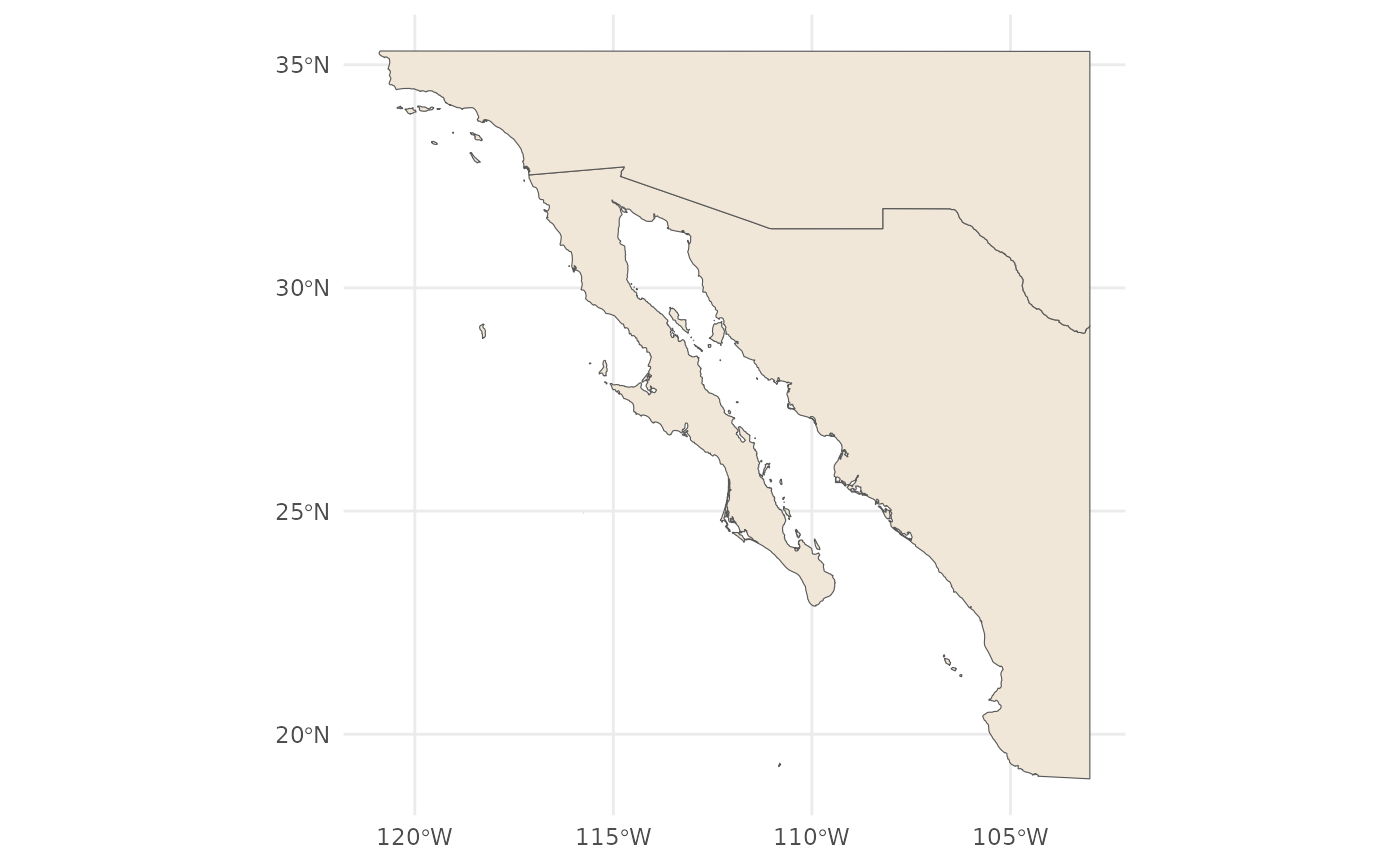
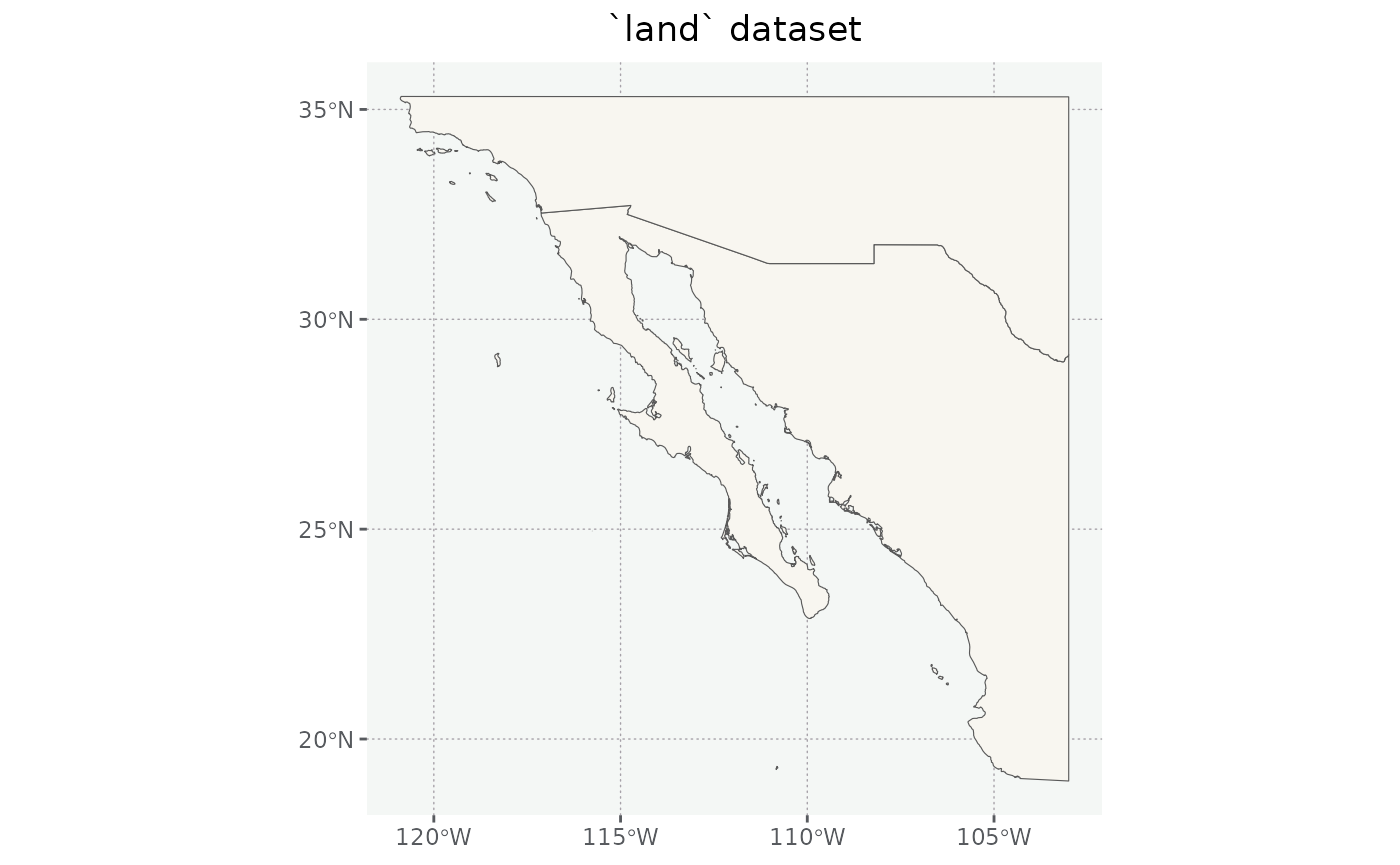
Deploying to gh-pages from @ sagesteppe/flyer@f2c54c11d3c9e07868a18c1d25ba325e4ec7dc86 🚀

diff --git a/articles/ExploreDataSets.html b/articles/ExploreDataSets.html
@@ -122,7 +122,29 @@ the <code>pretty</code> function does not always return the requested
 <span>  <span class="op">)</span></span>
 <span><span class="op">}</span></span>
 <span></span>
-<span><span class="va">brks</span> <span class="op">&lt;-</span> <span class="fu">graticNo</span><span class="op">(</span>polygon <span class="op">=</span> <span class="va">places</span>, nx <span class="op">=</span> <span class="fl">4</span>, ny <span class="op">=</span> <span class="fl">5</span><span class="op">)</span></span></code></pre></div>
+<span><span class="va">brks</span> <span class="op">&lt;-</span> <span class="fu">graticNo</span><span class="op">(</span>polygon <span class="op">=</span> <span class="va">places</span>, nx <span class="op">=</span> <span class="fl">4</span>, ny <span class="op">=</span> <span class="fl">4</span><span class="op">)</span></span>
+<span></span>
+<span></span>
+<span><span class="va">theme_nautical</span> <span class="op">&lt;-</span> <span class="kw">function</span><span class="op">(</span><span class="op">)</span> <span class="op">{</span></span>
+<span>  <span class="fu"><a href="https://ggplot2.tidyverse.org/reference/theme.html" class="external-link">theme</a></span><span class="op">(</span></span>
+<span>    </span>
+<span>    axis.title <span class="op">=</span> <span class="fu"><a href="https://ggplot2.tidyverse.org/reference/element.html" class="external-link">element_text</a></span><span class="op">(</span>colour <span class="op">=</span> <span class="st">"#222823"</span>, family <span class="op">=</span> <span class="st">"Times New Roman"</span><span class="op">)</span>,</span>
+<span>    axis.text <span class="op">=</span> <span class="fu"><a href="https://ggplot2.tidyverse.org/reference/element.html" class="external-link">element_text</a></span><span class="op">(</span>colour <span class="op">=</span> <span class="st">"#575A5E"</span>, face <span class="op">=</span> <span class="st">"italic"</span>, family <span class="op">=</span> <span class="st">"Optima"</span><span class="op">)</span>,</span>
+<span>    axis.ticks <span class="op">=</span> <span class="fu"><a href="https://ggplot2.tidyverse.org/reference/element.html" class="external-link">element_line</a></span><span class="op">(</span>colour <span class="op">=</span> <span class="st">"#575A5E"</span><span class="op">)</span>,</span>
+<span>    </span>
+<span>    plot.title <span class="op">=</span> <span class="fu"><a href="https://ggplot2.tidyverse.org/reference/element.html" class="external-link">element_text</a></span><span class="op">(</span>hjust <span class="op">=</span> <span class="fl">0.5</span><span class="op">)</span>,</span>
+<span>    plot.subtitle <span class="op">=</span> <span class="fu"><a href="https://ggplot2.tidyverse.org/reference/element.html" class="external-link">element_text</a></span><span class="op">(</span>hjust <span class="op">=</span> <span class="fl">1</span><span class="op">)</span>,</span>
+<span></span>
+<span>    </span>
+<span>    panel.background <span class="op">=</span> <span class="fu"><a href="https://ggplot2.tidyverse.org/reference/element.html" class="external-link">element_rect</a></span><span class="op">(</span>fill <span class="op">=</span> <span class="st">"#F4F7F5"</span><span class="op">)</span>,</span>
+<span>    panel.border <span class="op">=</span> <span class="fu"><a href="https://ggplot2.tidyverse.org/reference/element.html" class="external-link">element_rect</a></span><span class="op">(</span>colour <span class="op">=</span> <span class="cn">NA</span>, fill <span class="op">=</span> <span class="cn">NA</span><span class="op">)</span>,</span>
+<span>    panel.grid.major <span class="op">=</span> <span class="fu"><a href="https://ggplot2.tidyverse.org/reference/element.html" class="external-link">element_line</a></span><span class="op">(</span>colour <span class="op">=</span> <span class="st">"#A7A2A9"</span>, linetype <span class="op">=</span> <span class="st">'dotted'</span>, linewidth <span class="op">=</span> <span class="fl">0.25</span><span class="op">)</span>,</span>
+<span>    panel.grid.minor <span class="op">=</span> <span class="fu"><a href="https://ggplot2.tidyverse.org/reference/element.html" class="external-link">element_blank</a></span><span class="op">(</span><span class="op">)</span>,</span>
+<span>  </span>
+<span>    legend.position <span class="op">=</span> <span class="st">"bottom"</span></span>
+<span>    </span>
+<span>  <span class="op">)</span></span>
+<span><span class="op">}</span></span></code></pre></div>
 </div>
 <div class="section level2">
 <h2 id="the-data-sets">the data sets<a class="anchor" aria-label="anchor" href="#the-data-sets"></a>
@@ -158,8 +180,9 @@ Open Sci page for more info</a>.</p>
 <span><span class="co">#&gt; <span style="color: #BCBCBC;">2</span> United States of America (((-119.3816 34.01122, -119.3923 34.00631, -119.4113…</span></span>
 <span></span>
 <span><span class="fu"><a href="https://ggplot2.tidyverse.org/reference/ggplot.html" class="external-link">ggplot</a></span><span class="op">(</span><span class="op">)</span> <span class="op">+</span> </span>
-<span>  <span class="fu"><a href="https://ggplot2.tidyverse.org/reference/ggsf.html" class="external-link">geom_sf</a></span><span class="op">(</span>data <span class="op">=</span> <span class="va">land</span>, fill <span class="op">=</span> <span class="st">'#F0E7D8'</span><span class="op">)</span> <span class="op">+</span> </span>
-<span>  <span class="fu"><a href="https://ggplot2.tidyverse.org/reference/ggtheme.html" class="external-link">theme_minimal</a></span><span class="op">(</span><span class="op">)</span></span></code></pre></div>
+<span>  <span class="fu"><a href="https://ggplot2.tidyverse.org/reference/ggsf.html" class="external-link">geom_sf</a></span><span class="op">(</span>data <span class="op">=</span> <span class="va">land</span>, fill <span class="op">=</span> <span class="st">'#F8F6F0'</span><span class="op">)</span> <span class="op">+</span> </span>
+<span>  <span class="fu">theme_nautical</span><span class="op">(</span><span class="op">)</span> <span class="op">+</span></span>
+<span>  <span class="fu"><a href="https://ggplot2.tidyverse.org/reference/labs.html" class="external-link">labs</a></span><span class="op">(</span>title <span class="op">=</span> <span class="st">'`land` dataset'</span><span class="op">)</span></span></code></pre></div>
 <p><img src="ExploreDataSets_files/figure-html/add%20land-1.png" width="700"></p>
 <p>For playing around with the data today, I don’t want the different
 countries to be drawn separately so we can union them.</p>
@@ -167,8 +190,12 @@ countries to be drawn separately so we can union them.</p>
 <code class="sourceCode R"><span><span class="va">land</span> <span class="op">&lt;-</span> <span class="fu"><a href="https://r-spatial.github.io/sf/reference/geos_combine.html" class="external-link">st_union</a></span><span class="op">(</span><span class="va">land</span><span class="op">)</span></span>
 <span></span>
 <span><span class="va">m</span> <span class="op">&lt;-</span> <span class="fu"><a href="https://ggplot2.tidyverse.org/reference/ggplot.html" class="external-link">ggplot</a></span><span class="op">(</span><span class="op">)</span> <span class="op">+</span> </span>
-<span>  <span class="fu"><a href="https://ggplot2.tidyverse.org/reference/ggsf.html" class="external-link">geom_sf</a></span><span class="op">(</span>data <span class="op">=</span> <span class="va">land</span>, fill <span class="op">=</span> <span class="st">'#F0E7D8'</span><span class="op">)</span> <span class="op">+</span> </span>
-<span>  <span class="fu"><a href="https://ggplot2.tidyverse.org/reference/ggtheme.html" class="external-link">theme_minimal</a></span><span class="op">(</span><span class="op">)</span></span></code></pre></div>
+<span>  <span class="fu"><a href="https://ggplot2.tidyverse.org/reference/ggsf.html" class="external-link">geom_sf</a></span><span class="op">(</span>data <span class="op">=</span> <span class="va">land</span>, fill <span class="op">=</span> <span class="st">'#F8F6F0'</span><span class="op">)</span> <span class="op">+</span> </span>
+<span>  <span class="fu">theme_nautical</span><span class="op">(</span><span class="op">)</span> <span class="op">+</span> </span>
+<span>  <span class="fu"><a href="https://ggplot2.tidyverse.org/reference/labs.html" class="external-link">labs</a></span><span class="op">(</span>title <span class="op">=</span> <span class="st">'st_union(land) dataset'</span><span class="op">)</span></span>
+<span></span>
+<span><span class="va">m</span></span></code></pre></div>
+<p><img src="ExploreDataSets_files/figure-html/union%20land-1.png" width="700"></p>
 </div>
 <div class="section level5">
 <h5 id="places">places<a class="anchor" aria-label="anchor" href="#places"></a>
@@ -197,7 +224,8 @@ countries to be drawn separately so we can union them.</p>
 <span><span class="co">#&gt; 6  1940-03-18 POINT (-109.4243 23.43779)</span></span>
 <span></span>
 <span><span class="va">m</span> <span class="op">&lt;-</span> <span class="va">m</span> <span class="op">+</span> </span>
-<span>  <span class="fu"><a href="https://ggplot2.tidyverse.org/reference/ggsf.html" class="external-link">geom_sf</a></span><span class="op">(</span>data <span class="op">=</span> <span class="va">places</span><span class="op">)</span></span>
+<span>  <span class="fu"><a href="https://ggplot2.tidyverse.org/reference/ggsf.html" class="external-link">geom_sf</a></span><span class="op">(</span>data <span class="op">=</span> <span class="va">places</span><span class="op">)</span>  <span class="op">+</span></span>
+<span>  <span class="fu"><a href="https://ggplot2.tidyverse.org/reference/labs.html" class="external-link">labs</a></span><span class="op">(</span>title <span class="op">=</span> <span class="st">'places'</span>, subtitle <span class="op">=</span> <span class="st">'land + places'</span><span class="op">)</span></span>
 <span><span class="va">m</span></span></code></pre></div>
 <p><img src="ExploreDataSets_files/figure-html/plot%20the%20places-1.png" width="700"></p>
 <p>The places seem like they will be better treated as text labels - we
@@ -215,7 +243,9 @@ move them to avoid conflicts with other plot elements.</p>
 <span>  <span class="co"># now let's add in our customized graticules too. </span></span>
 <span>  <span class="fu"><a href="https://ggplot2.tidyverse.org/reference/scale_continuous.html" class="external-link">scale_x_continuous</a></span><span class="op">(</span><span class="st">'Longitude'</span>, breaks <span class="op">=</span> <span class="va">brks</span><span class="op">$</span><span class="va">x</span><span class="op">)</span> <span class="op">+</span></span>
 <span>  <span class="fu"><a href="https://ggplot2.tidyverse.org/reference/scale_continuous.html" class="external-link">scale_y_continuous</a></span><span class="op">(</span><span class="st">'Latitude'</span>, breaks <span class="op">=</span> <span class="va">brks</span><span class="op">$</span><span class="va">y</span><span class="op">)</span> <span class="op">+</span> </span>
-<span>  <span class="fu"><a href="https://ggplot2.tidyverse.org/reference/ggtheme.html" class="external-link">theme_minimal</a></span><span class="op">(</span><span class="op">)</span></span>
+<span>  <span class="fu">theme_nautical</span><span class="op">(</span><span class="op">)</span> <span class="op">+</span> </span>
+<span>  </span>
+<span>  <span class="fu"><a href="https://ggplot2.tidyverse.org/reference/labs.html" class="external-link">labs</a></span><span class="op">(</span>title <span class="op">=</span> <span class="st">'geom_text_repel(places)'</span>, subtitle <span class="op">=</span> <span class="st">'land + places'</span><span class="op">)</span></span>
 <span></span>
 <span><span class="va">m</span></span></code></pre></div>
 <p><img src="ExploreDataSets_files/figure-html/plot%20places%20as%20text-1.png" width="700"></p>
@@ -276,7 +306,7 @@ would. We can convert the dates to factor to enforce data to be plotted
 in actual order.</p>
 <div class="sourceCode" id="cb10"><pre class="downlit sourceCode r">
 <code class="sourceCode R"><span><span class="va">m</span> <span class="op">+</span> </span>
-<span>  <span class="fu"><a href="https://ggplot2.tidyverse.org/reference/ggsf.html" class="external-link">geom_sf</a></span><span class="op">(</span>data <span class="op">=</span> <span class="va">route</span>, <span class="fu"><a href="https://ggplot2.tidyverse.org/reference/aes.html" class="external-link">aes</a></span><span class="op">(</span>color <span class="op">=</span> <span class="va">date_arrive</span><span class="op">)</span><span class="op">)</span></span></code></pre></div>
+<span>  <span class="fu"><a href="https://ggplot2.tidyverse.org/reference/ggsf.html" class="external-link">geom_sf</a></span><span class="op">(</span>data <span class="op">=</span> <span class="va">route</span>, <span class="fu"><a href="https://ggplot2.tidyverse.org/reference/aes.html" class="external-link">aes</a></span><span class="op">(</span>color <span class="op">=</span> <span class="va">date_arrive</span><span class="op">)</span><span class="op">)</span> </span></code></pre></div>
 <p><img src="ExploreDataSets_files/figure-html/unnamed-chunk-2-1.png" width="700"></p>
 <p>While some of the data for the start end of the trip is included,
 such as an entry when they are near Santa Barbara and that they started
@@ -298,9 +328,10 @@ CRAN. In my mind the maximum map area reaches San Diego in the North</p>
 <span><span class="co">#&gt; all geometries</span></span>
 <span></span>
 <span><span class="va">m</span> <span class="op">&lt;-</span> <span class="fu"><a href="https://ggplot2.tidyverse.org/reference/ggplot.html" class="external-link">ggplot</a></span><span class="op">(</span><span class="op">)</span>  <span class="op">+</span></span>
-<span>  <span class="fu"><a href="https://ggplot2.tidyverse.org/reference/ggsf.html" class="external-link">geom_sf</a></span><span class="op">(</span>data <span class="op">=</span> <span class="va">land</span>, fill <span class="op">=</span> <span class="st">'#F0E7D8'</span><span class="op">)</span> <span class="op">+</span> </span>
-<span>  <span class="fu"><a href="https://ggplot2.tidyverse.org/reference/ggtheme.html" class="external-link">theme_minimal</a></span><span class="op">(</span><span class="op">)</span> <span class="op">+</span></span>
-<span>  <span class="fu"><a href="https://ggplot2.tidyverse.org/reference/ggsf.html" class="external-link">coord_sf</a></span><span class="op">(</span>xlim <span class="op">=</span> <span class="fu"><a href="https://rdrr.io/r/base/c.html" class="external-link">c</a></span><span class="op">(</span><span class="va">bb</span><span class="op">[</span><span class="fl">1</span><span class="op">]</span>, <span class="va">bb</span><span class="op">[</span><span class="fl">3</span><span class="op">]</span><span class="op">)</span>, ylim <span class="op">=</span> <span class="fu"><a href="https://rdrr.io/r/base/c.html" class="external-link">c</a></span><span class="op">(</span><span class="va">bb</span><span class="op">[</span><span class="fl">2</span><span class="op">]</span>, <span class="va">bb</span><span class="op">[</span><span class="fl">4</span><span class="op">]</span><span class="op">)</span><span class="op">)</span></span>
+<span>  <span class="fu"><a href="https://ggplot2.tidyverse.org/reference/ggsf.html" class="external-link">geom_sf</a></span><span class="op">(</span>data <span class="op">=</span> <span class="va">land</span>, fill <span class="op">=</span> <span class="st">'#F8F6F0'</span><span class="op">)</span> <span class="op">+</span> </span>
+<span>  <span class="fu">theme_nautical</span><span class="op">(</span><span class="op">)</span> <span class="op">+</span></span>
+<span>  <span class="fu"><a href="https://ggplot2.tidyverse.org/reference/ggsf.html" class="external-link">geom_sf</a></span><span class="op">(</span>data <span class="op">=</span> <span class="va">route</span>, <span class="fu"><a href="https://ggplot2.tidyverse.org/reference/aes.html" class="external-link">aes</a></span><span class="op">(</span>color <span class="op">=</span> <span class="va">date_arrive</span><span class="op">)</span><span class="op">)</span> <span class="op">+</span> </span>
+<span>  <span class="fu"><a href="https://ggplot2.tidyverse.org/reference/ggsf.html" class="external-link">coord_sf</a></span><span class="op">(</span>xlim <span class="op">=</span> <span class="fu"><a href="https://rdrr.io/r/base/c.html" class="external-link">c</a></span><span class="op">(</span><span class="va">bb</span><span class="op">[</span><span class="fl">1</span><span class="op">]</span>, <span class="va">bb</span><span class="op">[</span><span class="fl">3</span><span class="op">]</span><span class="op">)</span>, ylim <span class="op">=</span> <span class="fu"><a href="https://rdrr.io/r/base/c.html" class="external-link">c</a></span><span class="op">(</span><span class="va">bb</span><span class="op">[</span><span class="fl">2</span><span class="op">]</span>, <span class="va">bb</span><span class="op">[</span><span class="fl">4</span><span class="op">]</span><span class="op">)</span><span class="op">)</span> </span>
 <span></span>
 <span><span class="va">m</span></span></code></pre></div>
 <p><img src="ExploreDataSets_files/figure-html/subset%20bounding%20box-1.png" width="700"></p>
@@ -316,19 +347,20 @@ variable m.</p>
 <div class="sourceCode" id="cb13"><pre class="downlit sourceCode r">
 <code class="sourceCode R"><span></span>
 <span><span class="va">m</span> <span class="op">&lt;-</span> <span class="fu"><a href="https://ggplot2.tidyverse.org/reference/ggplot.html" class="external-link">ggplot</a></span><span class="op">(</span><span class="op">)</span> <span class="op">+</span> </span>
-<span>  <span class="fu"><a href="https://ggplot2.tidyverse.org/reference/ggsf.html" class="external-link">geom_sf</a></span><span class="op">(</span>data <span class="op">=</span> <span class="va">land</span>, fill <span class="op">=</span> <span class="st">'#F0E7D8'</span><span class="op">)</span> <span class="op">+</span> </span>
+<span>  <span class="fu"><a href="https://ggplot2.tidyverse.org/reference/ggsf.html" class="external-link">geom_sf</a></span><span class="op">(</span>data <span class="op">=</span> <span class="va">land</span>, fill <span class="op">=</span> <span class="st">'#F8F6F0'</span><span class="op">)</span> <span class="op">+</span> </span>
 <span>  <span class="fu"><a href="https://ggplot2.tidyverse.org/reference/ggsf.html" class="external-link">geom_sf</a></span><span class="op">(</span>data <span class="op">=</span> <span class="va">topography</span>, lwd <span class="op">=</span> <span class="fl">0.1</span><span class="op">)</span> <span class="op">+</span> </span>
 <span>  <span class="fu"><a href="https://ggplot2.tidyverse.org/reference/ggsf.html" class="external-link">geom_sf</a></span><span class="op">(</span>data <span class="op">=</span> <span class="va">route</span>, <span class="fu"><a href="https://ggplot2.tidyverse.org/reference/aes.html" class="external-link">aes</a></span><span class="op">(</span>color <span class="op">=</span> <span class="va">date_arrive</span><span class="op">)</span><span class="op">)</span> <span class="op">+</span></span>
 <span>  <span class="fu"><a href="https://ggplot2.tidyverse.org/reference/ggsf.html" class="external-link">coord_sf</a></span><span class="op">(</span>xlim <span class="op">=</span> <span class="fu"><a href="https://rdrr.io/r/base/c.html" class="external-link">c</a></span><span class="op">(</span><span class="va">bb</span><span class="op">[</span><span class="fl">1</span><span class="op">]</span>, <span class="va">bb</span><span class="op">[</span><span class="fl">3</span><span class="op">]</span><span class="op">)</span>, ylim <span class="op">=</span> <span class="fu"><a href="https://rdrr.io/r/base/c.html" class="external-link">c</a></span><span class="op">(</span><span class="va">bb</span><span class="op">[</span><span class="fl">2</span><span class="op">]</span>, <span class="va">bb</span><span class="op">[</span><span class="fl">4</span><span class="op">]</span><span class="op">)</span><span class="op">)</span> <span class="op">+</span> </span>
 <span></span>
-<span>  </span>
+<span>  <span class="co"># we are going to shift to adding 'backing' to the labels this makes them easier to read</span></span>
 <span>  <span class="fu">ggrepel</span><span class="fu">::</span><span class="fu"><a href="https://ggrepel.slowkow.com/reference/geom_text_repel.html" class="external-link">geom_label_repel</a></span><span class="op">(</span></span>
 <span>    data <span class="op">=</span> <span class="va">places</span>,</span>
 <span>    <span class="fu"><a href="https://ggplot2.tidyverse.org/reference/aes.html" class="external-link">aes</a></span><span class="op">(</span>label <span class="op">=</span> <span class="va">location_espanol</span>, geometry <span class="op">=</span> <span class="va">geometry</span><span class="op">)</span>,</span>
 <span>    stat <span class="op">=</span> <span class="st">"sf_coordinates"</span>,</span>
-<span>    alpha <span class="op">=</span> <span class="fl">0.9</span>,</span>
-<span>    label.padding <span class="op">=</span> <span class="fl">0.1</span>,</span>
-<span>    size <span class="op">=</span> <span class="fl">1.5</span></span>
+<span>    alpha <span class="op">=</span> <span class="fl">0.7</span>, <span class="co"># make the backing more transparent</span></span>
+<span>    label.size <span class="op">=</span> <span class="cn">NA</span>, <span class="co"># remove the backing borders</span></span>
+<span>    label.padding <span class="op">=</span> <span class="fl">0.1</span>, <span class="co"># reduce space between label borders and text</span></span>
+<span>    size <span class="op">=</span> <span class="fl">1.5</span> <span class="co"># make the font smaller. </span></span>
 <span>    <span class="op">)</span> <span class="op">+</span> </span>
 <span>  </span>
 <span>  <span class="co"># now let's add in our customized graticules too. </span></span>
@@ -342,9 +374,8 @@ variable m.</p>
 <p><img src="ExploreDataSets_files/figure-html/add%20topography-2.png" width="700"></p>
 <p>We can plot the bathymetry data like this.</p>
 <div class="sourceCode" id="cb14"><pre class="downlit sourceCode r">
-<code class="sourceCode R"><span></span>
-<span><span class="fu"><a href="https://ggplot2.tidyverse.org/reference/ggplot.html" class="external-link">ggplot</a></span><span class="op">(</span><span class="op">)</span> <span class="op">+</span> </span>
-<span>  <span class="fu"><a href="https://ggplot2.tidyverse.org/reference/ggsf.html" class="external-link">geom_sf</a></span><span class="op">(</span>data <span class="op">=</span> <span class="va">land</span>, fill <span class="op">=</span> <span class="st">'#F0E7D8'</span><span class="op">)</span> <span class="op">+</span> </span>
+<code class="sourceCode R"><span><span class="fu"><a href="https://ggplot2.tidyverse.org/reference/ggplot.html" class="external-link">ggplot</a></span><span class="op">(</span><span class="op">)</span> <span class="op">+</span> </span>
+<span>  <span class="fu"><a href="https://ggplot2.tidyverse.org/reference/ggsf.html" class="external-link">geom_sf</a></span><span class="op">(</span>data <span class="op">=</span> <span class="va">land</span>, fill <span class="op">=</span> <span class="st">'#F8F6F0'</span><span class="op">)</span> <span class="op">+</span> </span>
 <span>  <span class="fu"><a href="https://ggplot2.tidyverse.org/reference/ggsf.html" class="external-link">geom_sf</a></span><span class="op">(</span>data <span class="op">=</span> <span class="va">bathymetry</span>, <span class="fu"><a href="https://ggplot2.tidyverse.org/reference/aes.html" class="external-link">aes</a></span><span class="op">(</span>color <span class="op">=</span> <span class="va">elevation</span><span class="op">)</span>, lwd <span class="op">=</span> <span class="fl">0.4</span><span class="op">)</span>  <span class="op">+</span></span>
 <span>  <span class="fu"><a href="https://ggplot2.tidyverse.org/reference/ggtheme.html" class="external-link">theme_minimal</a></span><span class="op">(</span><span class="op">)</span> <span class="op">+</span> </span>
 <span>  <span class="fu"><a href="https://ggplot2.tidyverse.org/reference/ggsf.html" class="external-link">coord_sf</a></span><span class="op">(</span>xlim <span class="op">=</span> <span class="fu"><a href="https://rdrr.io/r/base/c.html" class="external-link">c</a></span><span class="op">(</span><span class="va">bb</span><span class="op">[</span><span class="fl">1</span><span class="op">]</span>, <span class="va">bb</span><span class="op">[</span><span class="fl">3</span><span class="op">]</span><span class="op">)</span>, ylim <span class="op">=</span> <span class="fu"><a href="https://rdrr.io/r/base/c.html" class="external-link">c</a></span><span class="op">(</span><span class="va">bb</span><span class="op">[</span><span class="fl">2</span><span class="op">]</span>, <span class="va">bb</span><span class="op">[</span><span class="fl">4</span><span class="op">]</span><span class="op">)</span><span class="op">)</span></span></code></pre></div>
@@ -372,15 +403,12 @@ blue.</p>
 <span><span class="co">#&gt; 1.3     -4000 LINESTRING (-121 27.20785, ...</span></span>
 <span><span class="co">#&gt; 1.4     -4000 LINESTRING (-121 21.41284, ...</span></span>
 <span><span class="co">#&gt; 1.5     -4000 LINESTRING (-121 21.86726, ...</span></span>
-<span><span class="fu"><a href="https://rdrr.io/r/graphics/plot.default.html" class="external-link">plot</a></span><span class="op">(</span><span class="va">bathymetry</span><span class="op">)</span></span></code></pre></div>
-<p><img src="ExploreDataSets_files/figure-html/and%20bathymetry-1.png" width="700"></p>
-<div class="sourceCode" id="cb16"><pre class="downlit sourceCode r">
-<code class="sourceCode R"><span></span>
+<span></span>
 <span><span class="fu"><a href="https://ggplot2.tidyverse.org/reference/ggplot.html" class="external-link">ggplot</a></span><span class="op">(</span><span class="op">)</span> <span class="op">+</span> </span>
-<span>  <span class="fu"><a href="https://ggplot2.tidyverse.org/reference/ggsf.html" class="external-link">geom_sf</a></span><span class="op">(</span>data <span class="op">=</span> <span class="va">land</span>, fill <span class="op">=</span> <span class="st">'#F0E7D8'</span><span class="op">)</span> <span class="op">+</span> </span>
+<span>  <span class="fu"><a href="https://ggplot2.tidyverse.org/reference/ggsf.html" class="external-link">geom_sf</a></span><span class="op">(</span>data <span class="op">=</span> <span class="va">land</span>, fill <span class="op">=</span> <span class="st">'#F8F6F0'</span><span class="op">)</span> <span class="op">+</span> </span>
 <span>  <span class="fu"><a href="https://ggplot2.tidyverse.org/reference/ggsf.html" class="external-link">geom_sf</a></span><span class="op">(</span>data <span class="op">=</span> <span class="va">bathymetry</span>, <span class="fu"><a href="https://ggplot2.tidyverse.org/reference/aes.html" class="external-link">aes</a></span><span class="op">(</span>color <span class="op">=</span> <span class="va">elevation</span><span class="op">)</span>, lwd <span class="op">=</span> <span class="fl">0.4</span><span class="op">)</span> <span class="op">+</span> </span>
 <span>  <span class="fu"><a href="https://ggplot2.tidyverse.org/reference/ggsf.html" class="external-link">geom_sf</a></span><span class="op">(</span>data <span class="op">=</span> <span class="va">topography</span>, <span class="fu"><a href="https://ggplot2.tidyverse.org/reference/aes.html" class="external-link">aes</a></span><span class="op">(</span>color <span class="op">=</span> <span class="va">elevation</span><span class="op">)</span>, lwd <span class="op">=</span> <span class="fl">0.4</span><span class="op">)</span> <span class="op">+</span> </span>
-<span>  <span class="fu"><a href="https://ggplot2.tidyverse.org/reference/scale_brewer.html" class="external-link">scale_color_distiller</a></span><span class="op">(</span>palette <span class="op">=</span> <span class="st">"Spectral"</span><span class="op">)</span> <span class="op">+</span></span>
+<span>  <span class="fu"><a href="https://ggplot2.tidyverse.org/reference/scale_brewer.html" class="external-link">scale_color_distiller</a></span><span class="op">(</span><span class="st">'Elevation'</span>, palette <span class="op">=</span> <span class="st">"Spectral"</span><span class="op">)</span> <span class="op">+</span></span>
 <span>  </span>
 <span>  <span class="fu">ggnewscale</span><span class="fu">::</span><span class="fu"><a href="https://eliocamp.github.io/ggnewscale/reference/new_scale.html" class="external-link">new_scale_color</a></span><span class="op">(</span><span class="op">)</span> <span class="op">+</span> </span>
 <span></span>
@@ -388,7 +416,7 @@ blue.</p>
 <span>  <span class="fu"><a href="https://ggplot2.tidyverse.org/reference/ggsf.html" class="external-link">geom_sf</a></span><span class="op">(</span>data <span class="op">=</span> <span class="va">route</span>, <span class="fu"><a href="https://ggplot2.tidyverse.org/reference/aes.html" class="external-link">aes</a></span><span class="op">(</span>color <span class="op">=</span> <span class="va">date_arrive</span><span class="op">)</span><span class="op">)</span> <span class="op">+</span></span>
 <span>  <span class="fu"><a href="https://ggplot2.tidyverse.org/reference/ggtheme.html" class="external-link">theme_minimal</a></span><span class="op">(</span><span class="op">)</span> <span class="op">+</span> </span>
 <span>  <span class="fu"><a href="https://ggplot2.tidyverse.org/reference/ggsf.html" class="external-link">coord_sf</a></span><span class="op">(</span>xlim <span class="op">=</span> <span class="fu"><a href="https://rdrr.io/r/base/c.html" class="external-link">c</a></span><span class="op">(</span><span class="va">bb</span><span class="op">[</span><span class="fl">1</span><span class="op">]</span>, <span class="va">bb</span><span class="op">[</span><span class="fl">3</span><span class="op">]</span><span class="op">)</span>, ylim <span class="op">=</span> <span class="fu"><a href="https://rdrr.io/r/base/c.html" class="external-link">c</a></span><span class="op">(</span><span class="va">bb</span><span class="op">[</span><span class="fl">2</span><span class="op">]</span>, <span class="va">bb</span><span class="op">[</span><span class="fl">4</span><span class="op">]</span><span class="op">)</span><span class="op">)</span></span></code></pre></div>
-<p><img src="ExploreDataSets_files/figure-html/and%20bathymetry-2.png" width="700"></p>
+<p><img src="ExploreDataSets_files/figure-html/and%20bathymetry-1.png" width="700"></p>
 </div>
 <div class="section level3">
 <h3 id="tangential-data">tangential data<a class="anchor" aria-label="anchor" href="#tangential-data"></a>
@@ -399,7 +427,7 @@ cartography.</p>
 <p>A simple landcover classification data set is available as
 <code>landcover</code>. We also include some quick colors to help with
 mapping these classes.</p>
-<div class="sourceCode" id="cb17"><pre class="downlit sourceCode r">
+<div class="sourceCode" id="cb16"><pre class="downlit sourceCode r">
 <code class="sourceCode R"><span><span class="fu"><a href="https://ggplot2.tidyverse.org/reference/ggplot.html" class="external-link">ggplot</a></span><span class="op">(</span><span class="op">)</span> <span class="op">+</span> </span>
 <span>  <span class="fu"><a href="https://ggplot2.tidyverse.org/reference/ggsf.html" class="external-link">geom_sf</a></span><span class="op">(</span>data <span class="op">=</span> <span class="va">landcover</span>, <span class="fu"><a href="https://ggplot2.tidyverse.org/reference/aes.html" class="external-link">aes</a></span><span class="op">(</span>fill <span class="op">=</span> <span class="va">class</span><span class="op">)</span><span class="op">)</span> <span class="op">+</span> </span>
 <span>  <span class="fu"><a href="https://ggplot2.tidyverse.org/reference/scale_manual.html" class="external-link">scale_fill_manual</a></span><span class="op">(</span>values <span class="op">=</span> <span class="va">lc_pal</span><span class="op">)</span> <span class="op">+</span> </span>
@@ -407,9 +435,9 @@ mapping these classes.</p>
 <p><img src="ExploreDataSets_files/figure-html/unnamed-chunk-4-1.png" width="700"></p>
 <p>Additionally, information on protected areas of Mexico are also
 included.</p>
-<div class="sourceCode" id="cb18"><pre class="downlit sourceCode r">
+<div class="sourceCode" id="cb17"><pre class="downlit sourceCode r">
 <code class="sourceCode R"><span><span class="fu"><a href="https://ggplot2.tidyverse.org/reference/ggplot.html" class="external-link">ggplot</a></span><span class="op">(</span><span class="op">)</span> <span class="op">+</span> </span>
-<span>  <span class="fu"><a href="https://ggplot2.tidyverse.org/reference/ggsf.html" class="external-link">geom_sf</a></span><span class="op">(</span>data <span class="op">=</span> <span class="va">land</span>, fill <span class="op">=</span> <span class="st">'#F0E7D8'</span><span class="op">)</span> <span class="op">+</span> </span>
+<span>  <span class="fu"><a href="https://ggplot2.tidyverse.org/reference/ggsf.html" class="external-link">geom_sf</a></span><span class="op">(</span>data <span class="op">=</span> <span class="va">land</span>, fill <span class="op">=</span> <span class="st">'#F8F6F0'</span><span class="op">)</span> <span class="op">+</span> </span>
 <span>  <span class="fu"><a href="https://ggplot2.tidyverse.org/reference/ggsf.html" class="external-link">geom_sf</a></span><span class="op">(</span></span>
 <span>    data <span class="op">=</span> <span class="va">protected</span>, </span>
 <span>    <span class="fu"><a href="https://ggplot2.tidyverse.org/reference/aes.html" class="external-link">aes</a></span><span class="op">(</span>color <span class="op">=</span> <span class="va">reserve_type</span>, fill <span class="op">=</span> <span class="va">reserve_type</span><span class="op">)</span>, </span>
@@ -434,10 +462,10 @@ included.</p>
 <h2 id="putting-it-all-together">putting it all together<a class="anchor" aria-label="anchor" href="#putting-it-all-together"></a>
 </h2>
 <p>We can make an OK map using some of the details below.</p>
-<div class="sourceCode" id="cb19"><pre class="downlit sourceCode r">
+<div class="sourceCode" id="cb18"><pre class="downlit sourceCode r">
 <code class="sourceCode R"><span></span>
 <span><span class="fu"><a href="https://ggplot2.tidyverse.org/reference/ggplot.html" class="external-link">ggplot</a></span><span class="op">(</span><span class="op">)</span> <span class="op">+</span> </span>
-<span>  <span class="fu"><a href="https://ggplot2.tidyverse.org/reference/ggsf.html" class="external-link">geom_sf</a></span><span class="op">(</span>data <span class="op">=</span> <span class="va">land</span>, fill <span class="op">=</span> <span class="st">'#F0E7D8'</span><span class="op">)</span> <span class="op">+</span> </span>
+<span>  <span class="fu"><a href="https://ggplot2.tidyverse.org/reference/ggsf.html" class="external-link">geom_sf</a></span><span class="op">(</span>data <span class="op">=</span> <span class="va">land</span>, fill <span class="op">=</span> <span class="st">'#F8F6F0'</span><span class="op">)</span> <span class="op">+</span> </span>
 <span>  <span class="fu"><a href="https://ggplot2.tidyverse.org/reference/ggsf.html" class="external-link">geom_sf</a></span><span class="op">(</span>data <span class="op">=</span> <span class="va">bathymetry</span>, <span class="fu"><a href="https://ggplot2.tidyverse.org/reference/aes.html" class="external-link">aes</a></span><span class="op">(</span>color <span class="op">=</span> <span class="va">elevation</span><span class="op">)</span>, lwd <span class="op">=</span> <span class="fl">0.1</span><span class="op">)</span> <span class="op">+</span> </span>
 <span>  <span class="fu"><a href="https://ggplot2.tidyverse.org/reference/ggsf.html" class="external-link">geom_sf</a></span><span class="op">(</span>data <span class="op">=</span> <span class="va">topography</span>,  <span class="fu"><a href="https://ggplot2.tidyverse.org/reference/aes.html" class="external-link">aes</a></span><span class="op">(</span>color <span class="op">=</span> <span class="va">elevation</span><span class="op">)</span>, lwd <span class="op">=</span> <span class="fl">0.1</span><span class="op">)</span> <span class="op">+</span> </span>
 <span>  <span class="fu"><a href="https://ggplot2.tidyverse.org/reference/ggsf.html" class="external-link">geom_sf</a></span><span class="op">(</span>data <span class="op">=</span> <span class="va">places</span><span class="op">)</span> <span class="op">+</span>  </span>
